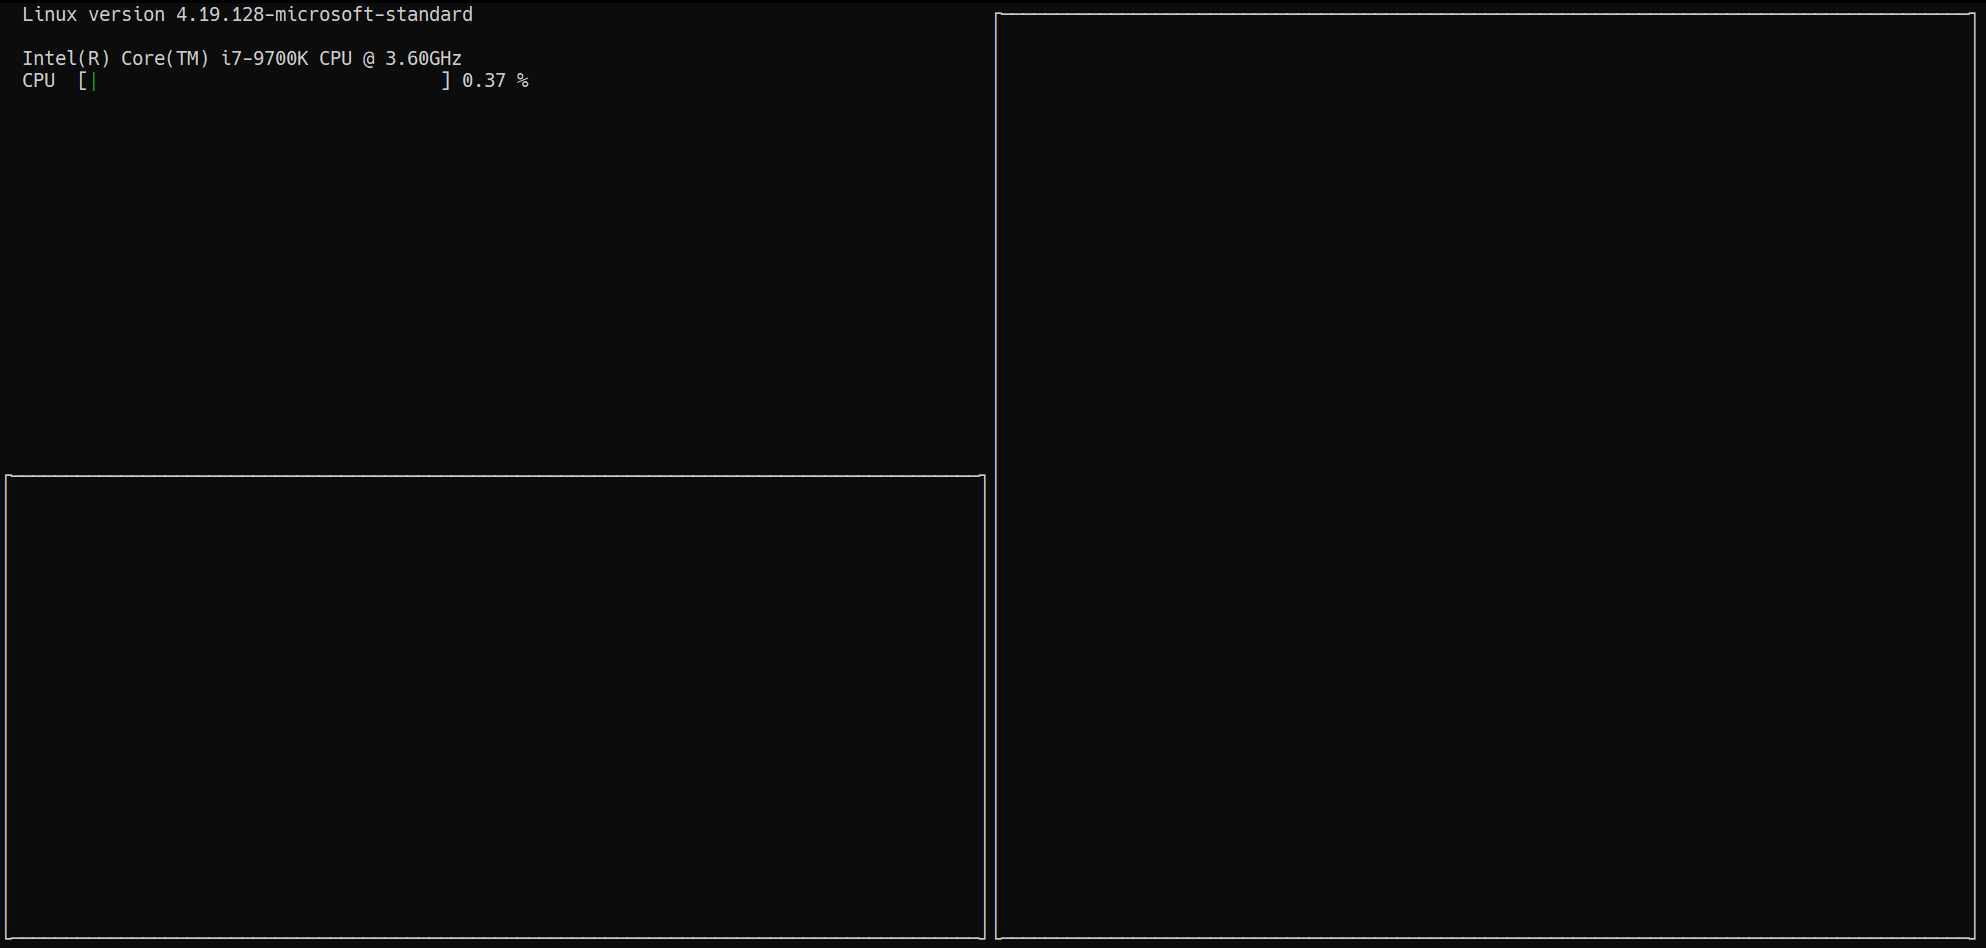
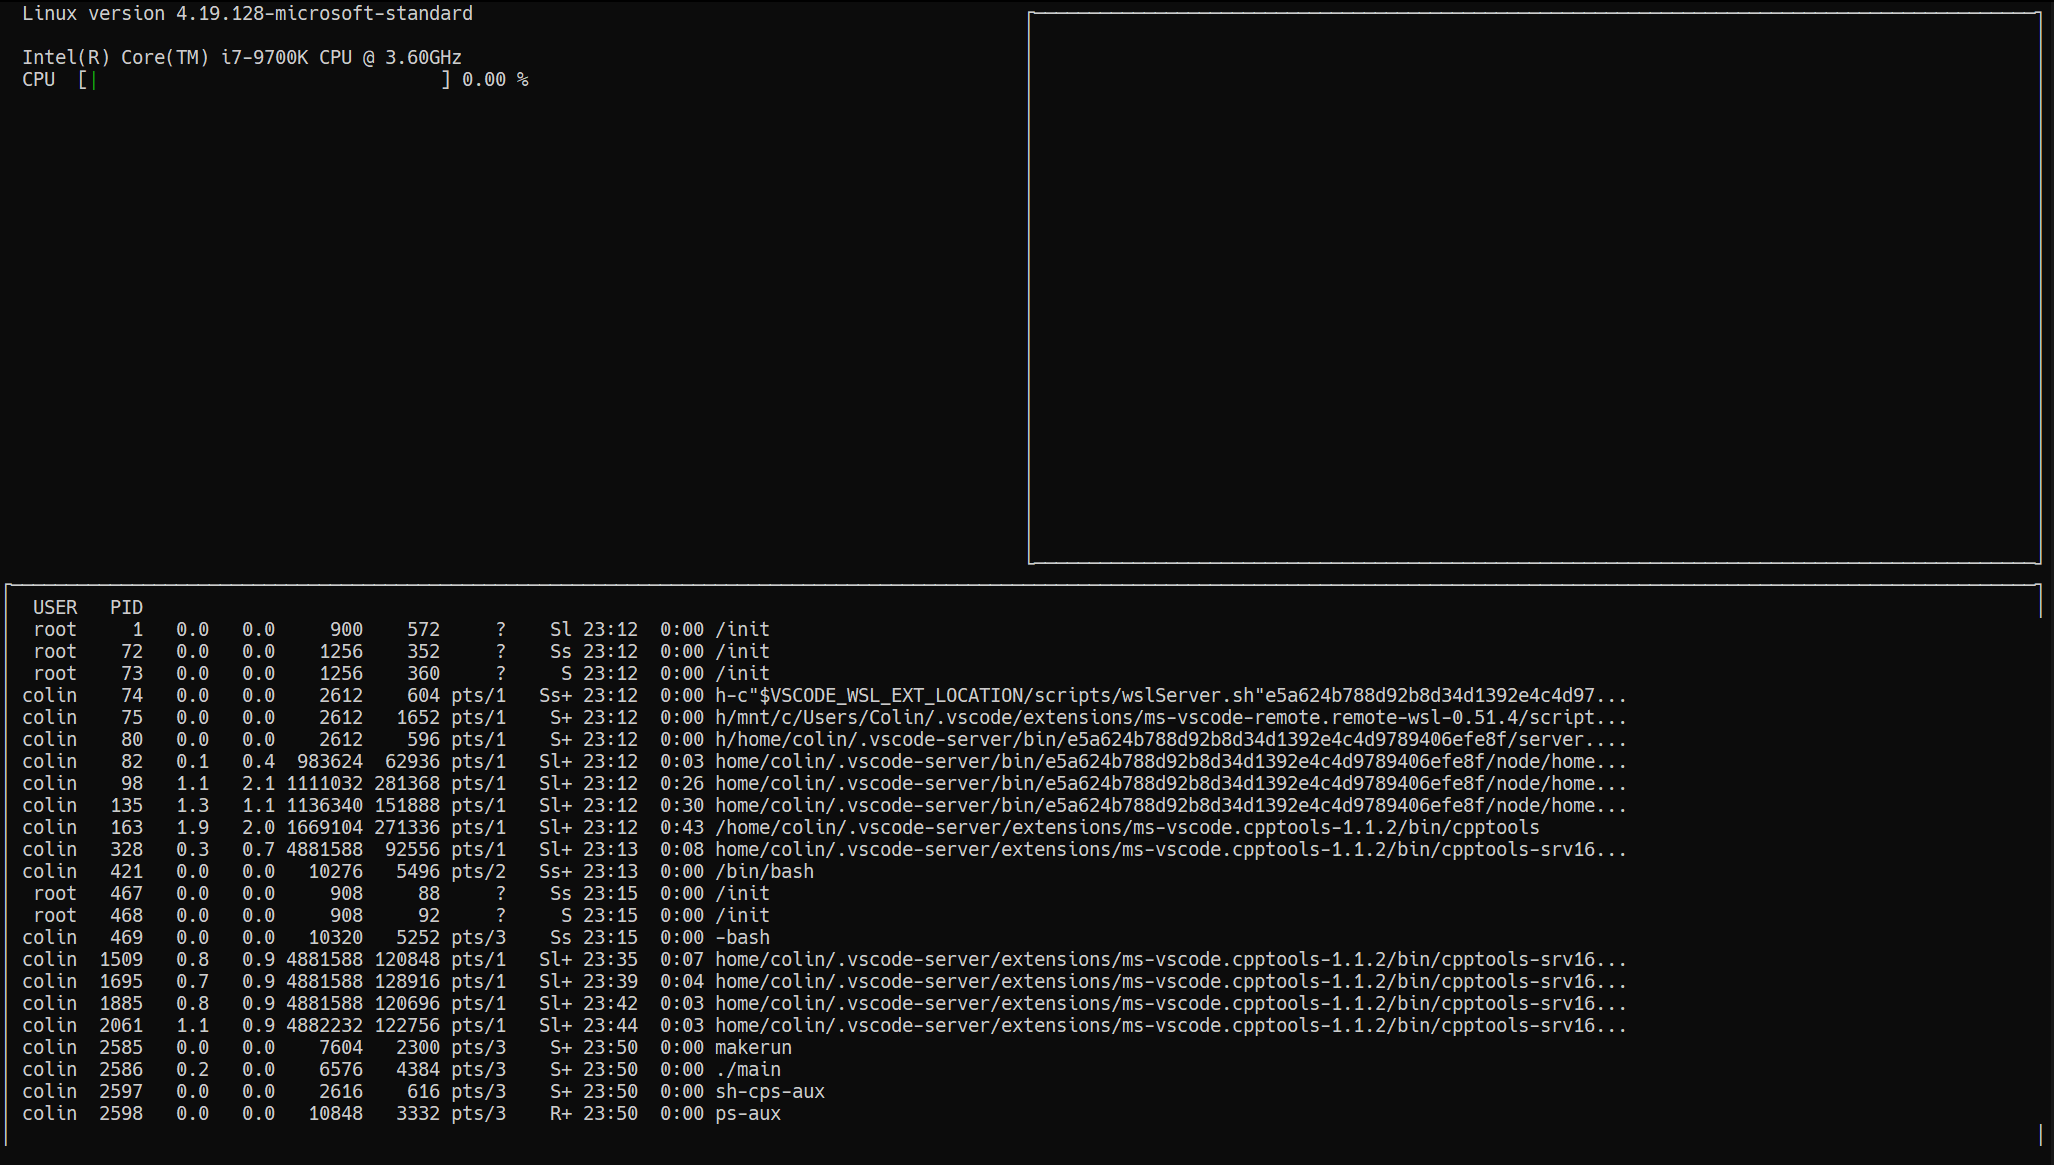
Display system processes

diff --git a/src/system-process.cpp b/src/system-process.cpp
@@ -1,15 +1,54 @@
 #include "system-process.h"
 
 SystemProcess::SystemProcess(std::string t_user, std::string t_pid,
-                             std::string t_apu, std::string t_mem,
+                             std::string t_cpu, std::string t_mem,
                              std::string t_vsz, std::string t_rss,
                              std::string t_tty, std::string t_stat,
                              std::string t_start, std::string t_time,
                              std::string t_command)
-    : user(t_user), pid(t_pid), apu(t_apu), mem(t_mem), vsz(t_vsz), rss(t_rss),
+    : user(t_user), pid(t_pid), cpu(t_cpu), mem(t_mem), vsz(t_vsz), rss(t_rss),
       tty(t_tty), stat(t_stat), start(t_start), time(t_time),
       command(t_command){};
 
-void SystemProcess::parse(const char* buffer) { std::cout << buffer << '\n'; }
+void SystemProcess::parse(const char* buffer)
+{
+
+    std::istringstream ss(buffer);
+
+    ss >> user >> pid >> cpu >> mem >> vsz >> rss >> tty >> stat >> start >>
+        time;
+    std::string word;
+    while (ss >> word)
+    {
+        command += word;
+    }
+
+    if (command.length() > 80)
+    {
+        command = command.substr(1, 80) + "...";
+    }
+}
 
 SystemProcess::SystemProcess(){};
+
+void SystemProcess::print()
+{
+    std::cout << std::setw(5) << user << " " << std::setw(5) << pid << " "
+              << std::setw(5) << cpu << " " << std::setw(5) << mem << " "
+              << std::setw(7) << vsz << " " << std::setw(6) << rss << " "
+              << std::setw(5) << tty << " " << std::setw(5) << stat << " "
+              << std::setw(5) << start << " " << std::setw(5) << time << " "
+              << command << std::endl;
+}
+
+std::string SystemProcess::toString()
+{
+    std::ostringstream oss;
+    oss << std::setw(5) << user << " " << std::setw(5) << pid << " "
+        << std::setw(5) << cpu << " " << std::setw(5) << mem << " "
+        << std::setw(7) << vsz << " " << std::setw(6) << rss << " "
+        << std::setw(5) << tty << " " << std::setw(5) << stat << " "
+        << std::setw(5) << start << " " << std::setw(5) << time << " "
+        << command << std::endl;
+    return oss.str();
+}

diff --git a/src/system-process.h b/src/system-process.h
@@ -1,12 +1,15 @@
 #ifndef SYSTEM_PROCESS_H
 #define SYSTEM_PROCESS_H
 
-#include "linker.h"
+#include <string>
+#include <sstream>
+#include <iostream>
+#include <iomanip>
 
 class SystemProcess
 {
 private:
-    std::string user, pid, apu, mem, vsz, rss, tty, stat, start, time, command;
+    std::string user, pid, cpu, mem, vsz, rss, tty, stat, start, time, command;
 
 public:
     SystemProcess();
@@ -15,6 +18,8 @@ public:
                   std::string, std::string, std::string);
 
     void parse(const char*);
+    void print();
+    std::string toString();
 };
 
 #endif

diff --git a/src/main.cpp b/src/main.cpp
@@ -1,4 +1,13 @@
-#include "linker.h"
+#include <ncurses.h>
+#include <unistd.h>
+#include <iomanip>
+#include <sys/ioctl.h>
+
+#include "cpu.h"
+#include "window.h"
+#include "init.h"
+#include "utils.h"
+#include "runtime.h"
 
 int main()
 {
@@ -37,7 +46,9 @@ int main()
         updateWindowOne(disp, cpu);
 
         System ps = exec("ps -aux");
-        // mvwprintw(menu.getWin(), 1, 2, ps.c_str());
+
+        displaySystemProcesses(menu, ps);
+        // mvwprintw(menu.getWin(), 1, 2, ps.print());
 
         wrefresh(menu.getWin());
         wrefresh(disp.getWin());

diff --git a/src/system.cpp b/src/system.cpp
@@ -3,3 +3,24 @@
 System::System(){};
 
 void System::add(SystemProcess& sp) { processes.emplace_back(sp); }
+
+SystemProcess System::get(int index) { return processes.at(index); }
+
+void System::print()
+{
+
+    for (SystemProcess p : processes)
+    {
+        p.print();
+    }
+}
+
+void System::display(WindowWrap& disp)
+{
+    int i = 1;
+    for (SystemProcess sp : processes)
+    {
+        mvwprintw(disp.getWin(), i, 2, sp.toString().c_str());
+        i++;
+    }
+}

diff --git a/src/utils.cpp b/src/utils.cpp
@@ -22,7 +22,7 @@ System exec(const char* cmd)
 {
     System sys;
 
-    std::array<char, 128> buffer;
+    std::array<char, 512> buffer;
     std::string result;
     std::unique_ptr<FILE, decltype(&pclose)> pipe(popen(cmd, "r"), pclose);
     if (!pipe)
@@ -34,7 +34,6 @@ System exec(const char* cmd)
         SystemProcess sp;
         sp.parse(buffer.data());
         sys.add(sp);
-        result += buffer.data();
     }
     return sys;
 }

diff --git a/src/system.h b/src/system.h
@@ -1,7 +1,9 @@
 #ifndef SYSTEM_H
 #define SYSTEM_H
 
-#include "linker.h"
+#include <vector>
+
+#include "window.h"
 #include "system-process.h"
 
 class System
@@ -12,6 +14,9 @@ private:
 public:
     System();
     void add(SystemProcess&);
+    SystemProcess get(int);
+    void display(WindowWrap&);
+    void print();
 };
 
 #endif

diff --git a/src/test.cpp b/src/test.cpp
@@ -1,9 +1,16 @@
-#include "linker.h"
 
-void TEST_1() { System ps = exec("ps -aux"); }
+#include "system.h"
+#include "utils.h"
+
+void TEST_1()
+{
+    System ps = exec("ps -aux");
+    ps.print();
+}
 
 int main()
 {
+    std::cout << "Starting tests..." << std::endl;
     TEST_1();
 
     return EXIT_SUCCESS;

diff --git a/src/runtime.h b/src/runtime.h
@@ -1,9 +1,13 @@
 #ifndef RUNTIME_H
 #define RUNTIME_H
 
-#include "linker.h"
+#include "cpu.h"
+#include "system.h"
+#include "window.h"
+#include "utils.h"
 
 void updateWindowOne(WindowWrap&, CpuReader&);
 void displayCpuLevel(WindowWrap&, float);
+void displaySystemProcesses(WindowWrap&, System&);
 
 #endif

diff --git a/src/runtime.cpp b/src/runtime.cpp
@@ -43,3 +43,8 @@ void displayCpuLevel(WindowWrap& disp, float util)
     ss << std::setprecision(2) << std::setw(4) << std::fixed << util << " %%";
     mvwprintw(disp.getWin(), 3, 42, ss.str().c_str());
 }
+
+void displaySystemProcesses(WindowWrap& disp, System& sys)
+{
+    sys.display(disp);
+}

diff --git a/src/utils.h b/src/utils.h
@@ -15,7 +15,12 @@ std::cerr << "Program not built for apple os" << '\n';
 exit(1);
 #endif
 
-#include "linker.h"
+#include <string>
+#include <array>
+#include <memory>
+
+#include "window.h"
+#include "system.h"
 
 namespace flag
 {

diff --git a/src/cpu.h b/src/cpu.h
@@ -2,9 +2,8 @@
 #define CPU_H
 
 #include <fstream>
-#include <iostream>
+#include <limits>
 #include <numeric>
-#include <unistd.h>
 #include <vector>
 
 class CpuReader

diff --git a/src/window.h b/src/window.h
@@ -1,7 +1,7 @@
 #ifndef WINDOW_WRAP_H
 #define WINDOW_WRAP_H
 
-#include "linker.h"
+#include "ncurses.h"
 
 class WindowWrap
 {
